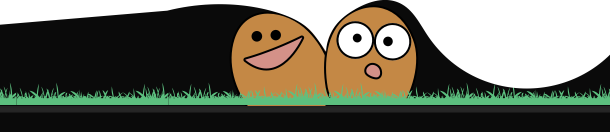
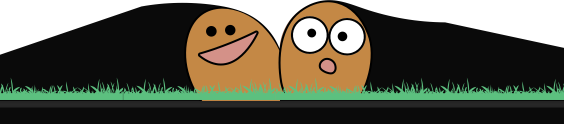
add mole

diff --git a/index.html b/index.html
@@ -108,7 +108,7 @@
         #moleContainer {
             position: absolute;
             bottom: 0;
-            left: 60%;
+            left: 50%;
             transform: translateX(-50%);
             width: 100px;
             height: 100%;
@@ -380,7 +380,7 @@
             const mole = document.getElementById('mole');
             const maxScore = 10;
             const visiblePercentage = Math.min(score / maxScore, 1);
-            const translateY = 80 - (visiblePercentage * 80); // 從100改為80
+            const translateY = 60 - (visiblePercentage * 60); // 從100改為80
             mole.style.transform = `translateY(${translateY}%)`;
         }
 
